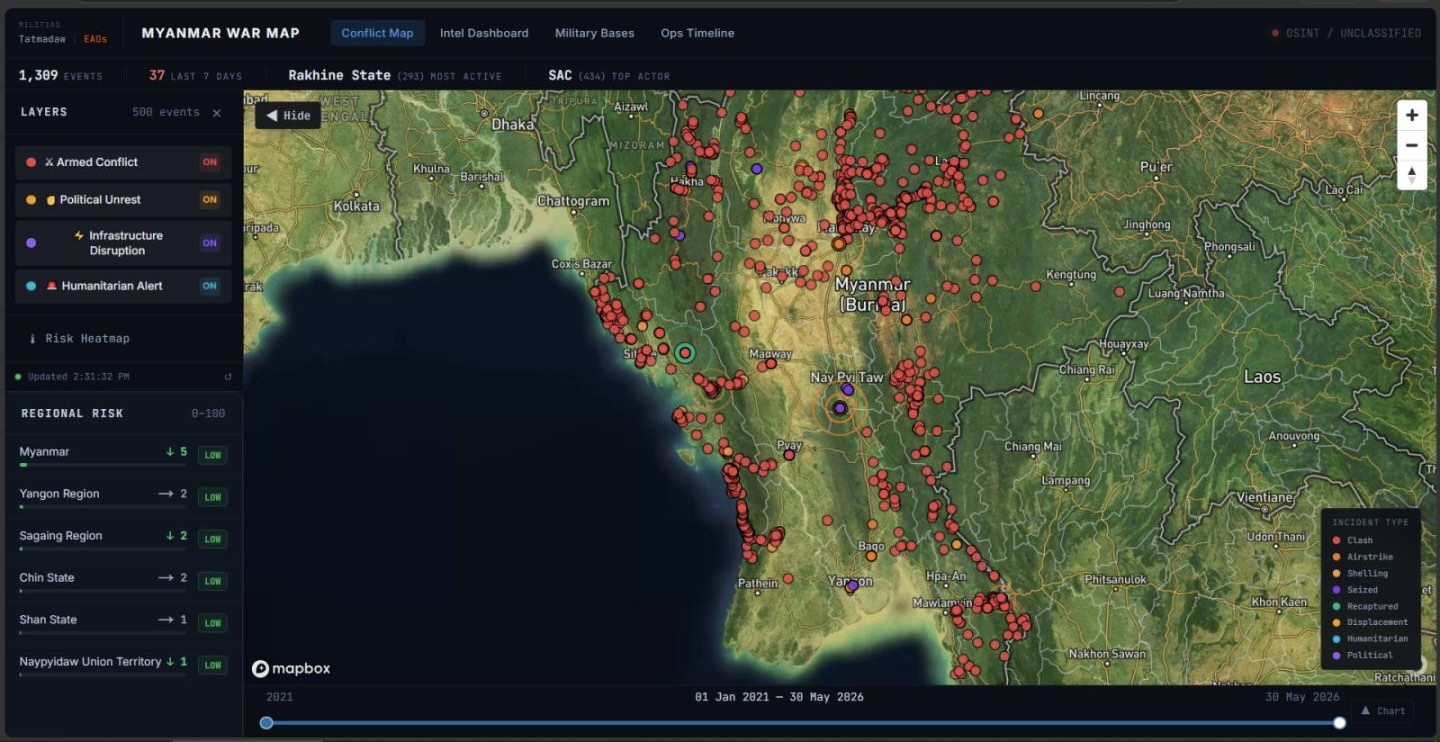
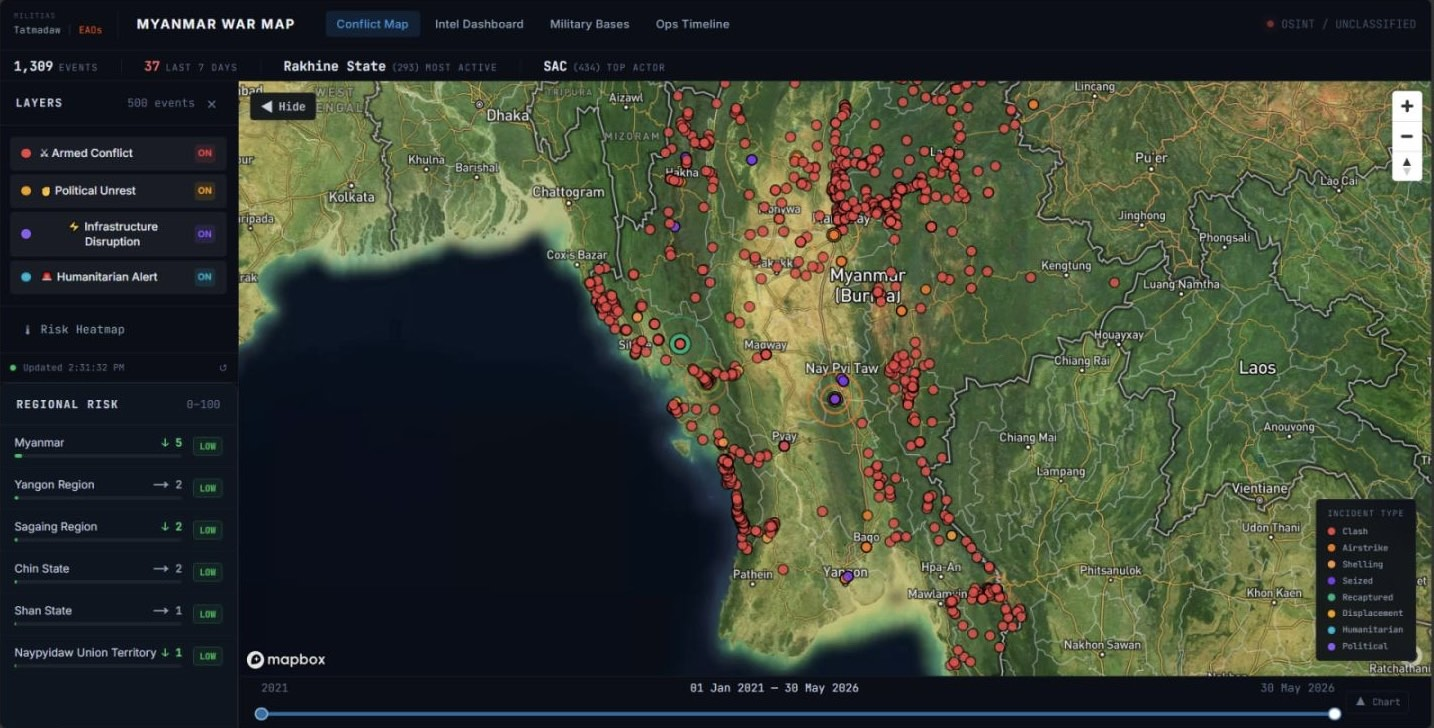
fix: image fills column height exactly (fill+object-cover); push replaced screenshots

diff --git a/src/app/page.tsx b/src/app/page.tsx
@@ -159,15 +159,15 @@ function DashboardRow({
     </div>
   )
 
-  // Screenshot: 3/5 columns, natural 16:9 ratio, no cropping
+  // Screenshot: 3/5 columns, fills column height exactly, crops if needed
   const imageBlock = (
-    <div className="lg:col-span-3 bg-[#0a0e17]">
+    <div className="lg:col-span-3 relative overflow-hidden min-h-[280px] self-stretch">
       <Image
         src={d.src}
         alt={d.label}
-        width={1920}
-        height={1080}
-        className="w-full h-auto block"
+        fill
+        className="object-cover object-top"
+        sizes="(max-width: 1024px) 100vw, 60vw"
         quality={90}
       />
     </div>
